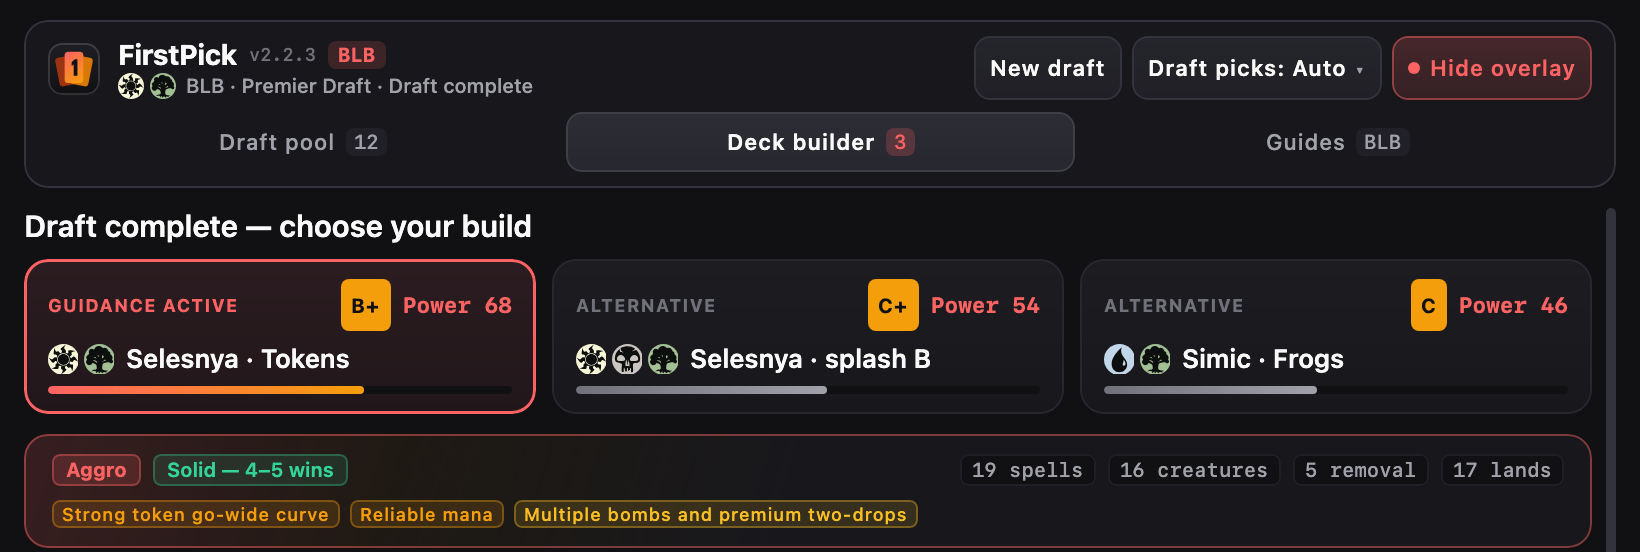
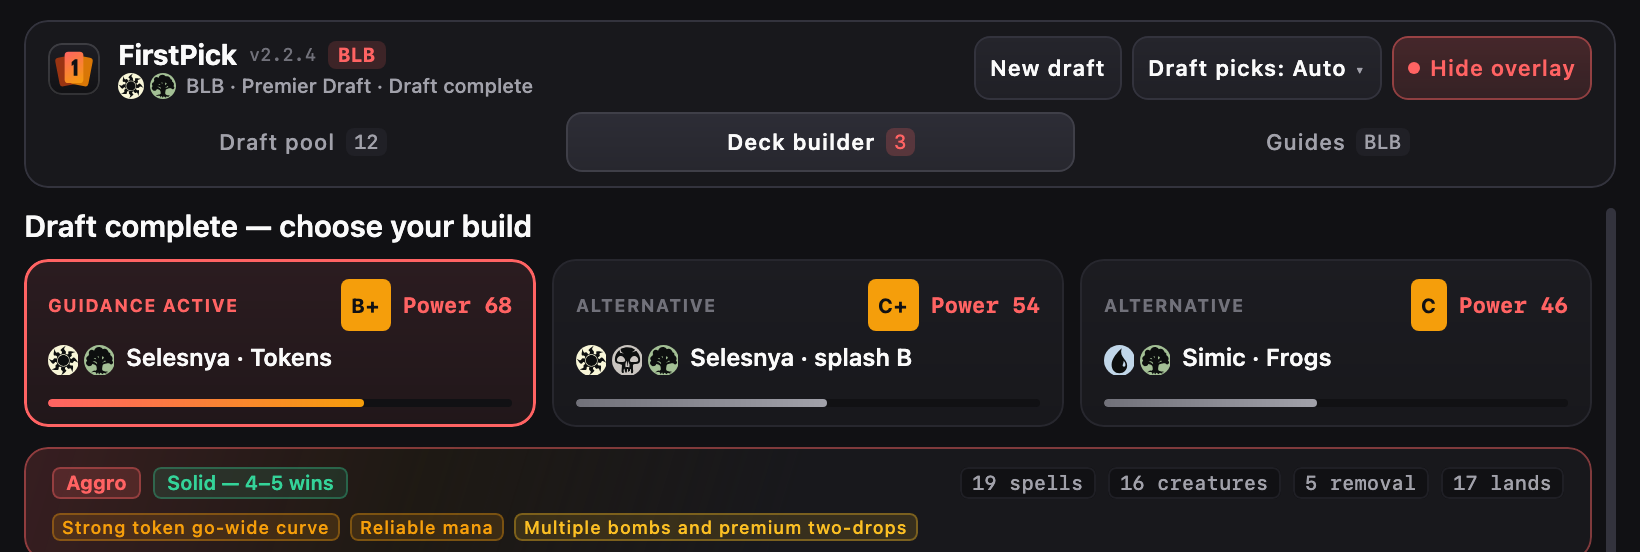
Ensure Deck Builder option cards expand and wrap titles without truncation (v2.2.4)

Changed region(s): [[0.0, 0.6159, 0.964, 1.0], [0.653, 0.6159, 0.8396, 0.7391]]

diff --git a/src/main/kotlin/com/firstpick/ui/DeckBuilderPane.kt b/src/main/kotlin/com/firstpick/ui/DeckBuilderPane.kt
@@ -95,48 +95,28 @@ internal fun DeckBuilderPane(
                 )
                 Spacer(Modifier.height(8.dp))
                 BoxWithConstraints(Modifier.fillMaxWidth()) {
-                    if (maxWidth >= 600.dp) {
-                        Column(verticalArrangement = Arrangement.spacedBy(8.dp)) {
-                            var globalIndex = 0
-                            for (rowOptions in options.chunked(3)) {
-                                Row(
-                                    modifier = Modifier.fillMaxWidth().height(IntrinsicSize.Min),
-                                    horizontalArrangement = Arrangement.spacedBy(8.dp),
-                                ) {
-                                    for (opt in rowOptions) {
-                                        val index = globalIndex++
-                                        OptionCard(
-                                            opt = opt,
-                                            recommended = index == 0,
-                                            previewed = opt.deckBuildKey == resolvedPreviewKey,
-                                            active = guidanceEnabled && opt.deckBuildKey == committedKey,
-                                            modifier = Modifier.weight(1f).fillMaxHeight(),
-                                            onClick = {
-                                                previewKey = opt.deckBuildKey
-                                                onUseDeck(opt)
-                                            },
-                                        )
-                                    }
+                    val columnsPerRow = if (maxWidth >= 640.dp && options.none { it.title.length > 28 }) 3 else 2
+                    Column(verticalArrangement = Arrangement.spacedBy(8.dp)) {
+                        var globalIndex = 0
+                        for (rowOptions in options.chunked(columnsPerRow)) {
+                            Row(
+                                modifier = Modifier.fillMaxWidth().height(IntrinsicSize.Min),
+                                horizontalArrangement = Arrangement.spacedBy(8.dp),
+                            ) {
+                                for (opt in rowOptions) {
+                                    val index = globalIndex++
+                                    OptionCard(
+                                        opt = opt,
+                                        recommended = index == 0,
+                                        previewed = opt.deckBuildKey == resolvedPreviewKey,
+                                        active = guidanceEnabled && opt.deckBuildKey == committedKey,
+                                        modifier = Modifier.weight(1f).fillMaxHeight(),
+                                        onClick = {
+                                            previewKey = opt.deckBuildKey
+                                            onUseDeck(opt)
+                                        },
+                                    )
                                 }
-                            }
-                        }
-                    } else {
-                        FlowRow(
-                            horizontalArrangement = Arrangement.spacedBy(8.dp),
-                            verticalArrangement = Arrangement.spacedBy(8.dp),
-                        ) {
-                            options.forEachIndexed { index, opt ->
-                                OptionCard(
-                                    opt = opt,
-                                    recommended = index == 0,
-                                    previewed = opt.deckBuildKey == resolvedPreviewKey,
-                                    active = guidanceEnabled && opt.deckBuildKey == committedKey,
-                                    modifier = Modifier.width(214.dp).fillMaxRowHeight(),
-                                    onClick = {
-                                        previewKey = opt.deckBuildKey
-                                        onUseDeck(opt)
-                                    },
-                                )
                             }
                         }
                     }
@@ -250,10 +230,11 @@ private fun DeckBentoSummaryCard(
             }
         }
 
-        Row(
+        FlowRow(
             modifier = Modifier.fillMaxWidth(),
-            verticalAlignment = Alignment.CenterVertically,
             horizontalArrangement = Arrangement.SpaceBetween,
+            verticalArrangement = Arrangement.spacedBy(6.dp),
+            itemVerticalAlignment = Alignment.CenterVertically,
         ) {
             // Left: Archetype Plan Badge + Build Outlook Badge
             Row(
@@ -322,9 +303,10 @@ private fun DeckBentoSummaryCard(
             }
 
             // Right: Composition Stat Pills
-            Row(
-                verticalAlignment = Alignment.CenterVertically,
+            FlowRow(
                 horizontalArrangement = Arrangement.spacedBy(6.dp),
+                verticalArrangement = Arrangement.spacedBy(4.dp),
+                itemVerticalAlignment = Alignment.CenterVertically,
             ) {
                 DeckStatPill(spellsLabel)
                 DeckStatPill("${deck.creatures} creatures")
@@ -630,17 +612,22 @@ private fun OptionCard(
             Spacer(Modifier.width(6.dp))
             DeckPowerSummary(opt)
         }
-        Row(verticalAlignment = Alignment.CenterVertically) {
-            PipRow(opt.colors.toList(), size = 15.dp)
+        Row(
+            modifier = Modifier.fillMaxWidth(),
+            verticalAlignment = Alignment.Top,
+        ) {
+            Box(Modifier.padding(top = 1.dp)) {
+                PipRow(opt.colors.toList(), size = 15.dp)
+            }
             Spacer(Modifier.width(6.dp))
             Text(
                 opt.title,
-                style = AppTheme.typography.cardTitle,
+                style = AppTheme.typography.cardTitle.copy(fontSize = 12.sp, lineHeight = 16.sp),
                 color = AppTheme.colors.textPrimary,
-                maxLines = 1,
-                overflow = TextOverflow.Ellipsis,
+                softWrap = true,
             )
         }
+        Spacer(Modifier.weight(1f))
         // Raycast Coral-to-Amber Power Progress Bar
         Box(
             Modifier
